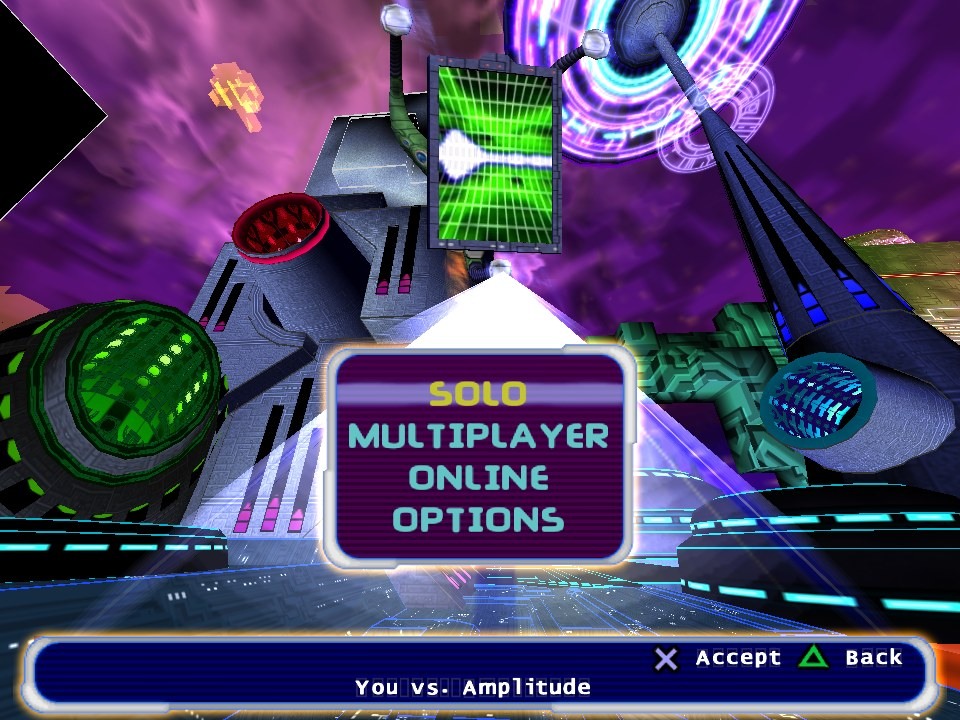
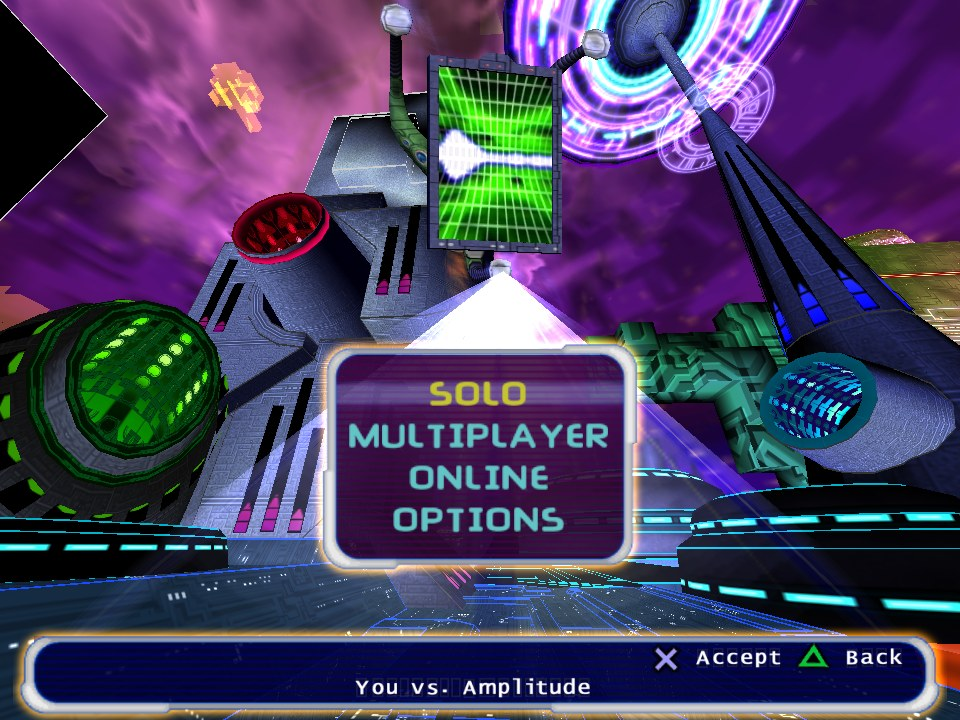
GS: textures keep the GS's alpha (it was doubled)
The decoder rescaled texel alpha to 255 and the renderer scales it by 255 / 128 again: every partly transparent
texel drew at twice its strength (the fonts' faint cell outlines boxed every glyph and space, the main menu's
light beams were solid). As DC_Recomp found (dc_native.cpp). Main menu screenshot retaken.

diff --git a/runtime/amp_gs_state.cpp b/runtime/amp_gs_state.cpp
@@ -355,11 +355,11 @@ namespace amp::gs
             const uint32_t a = aemZero ? 0u : ((c & 0x8000u) ? (texa >> 32) & 0xFFu : texa & 0xFFu);
             return r | g << 8 | b << 16 | a << 24;
         }
-        uint32_t toRgba8(uint32_t c) // GS alpha 0x80 = opaque -> 255
-        {
-            const uint32_t a = c >> 24;
-            return (c & 0xFFFFFFu) | (std::min(255u, a * 255u / 128u) << 24);
-        }
+        // The texel's alpha as the GS has it (0x80 is 1.0): the renderer scales it by 255 / 128 as the GS's blending
+        // reads it. Scaled here as well, every partly transparent texel drew at twice its strength: the fonts' faint
+        // cell outlines (alpha 9 of 128) showed as a box around every glyph and space, glows and soft edges too strong.
+        // (DC_Recomp found the same: dc_native.cpp.)
+        uint32_t toRgba8(uint32_t c) { return c; }
 
         // The texture TEX0 names, decoded from the local memory (cached until a page it spans is written).
         std::shared_ptr<Texture> lookUpTexture(uint64_t tex0);

diff --git a/docs/RECOMP_NOTES.md b/docs/RECOMP_NOTES.md
@@ -195,6 +195,10 @@ interpreter runs them all).
   The texture function is now TEX0's for textured primitives only. Left: a black wedge top left of the main menu,
   large triangles that by the GS's rules are opaque black (a white-to-grey palette, all alpha 0x80, black vertices);
   probably the scene's own dark structure.
+- **Texture alpha doubled.** The decoder rescaled texel alpha to 255 (0x80 = opaque) and the renderer's shader scales
+  it by 255 / 128 again, as the engine's textures carry the GS's alpha: every partly transparent texel drew at twice
+  its strength (the fonts' faint cell outlines, alpha 9 of 128, boxed every glyph and space; the main menu's light
+  beams were solid). The decoder now keeps the GS's alpha (DC_Recomp's dc_native.cpp found the same).
 - **Save states.** A state held the engine's parts and the sound modules but not the port's: its DMA register file
   and MFIFO ring (set once at boot), VIF and the VUs (the microcode is sent once at boot), the GS registers and local
   memory (textures uploaded once), the IPU streams. A loaded state ran on into a renderer that never drained its ring:
